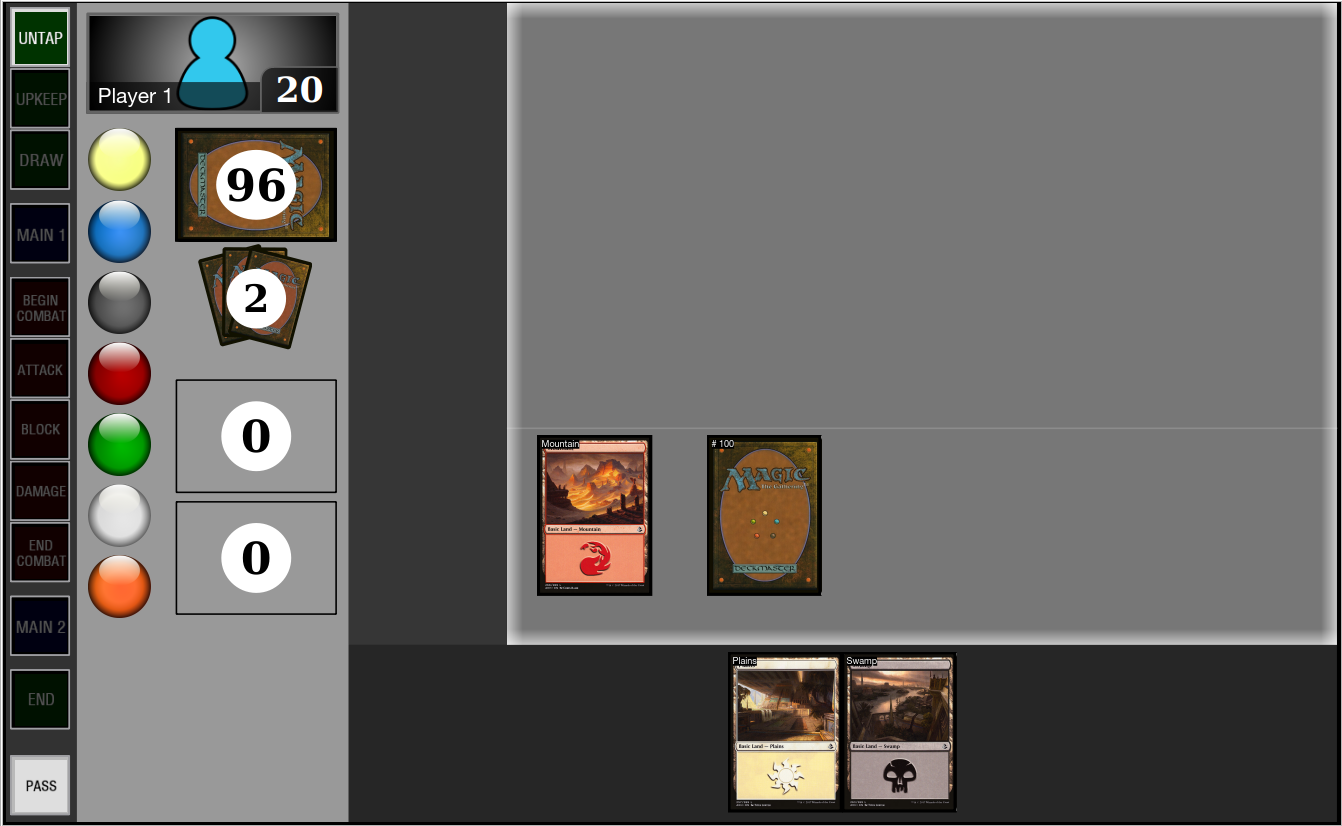
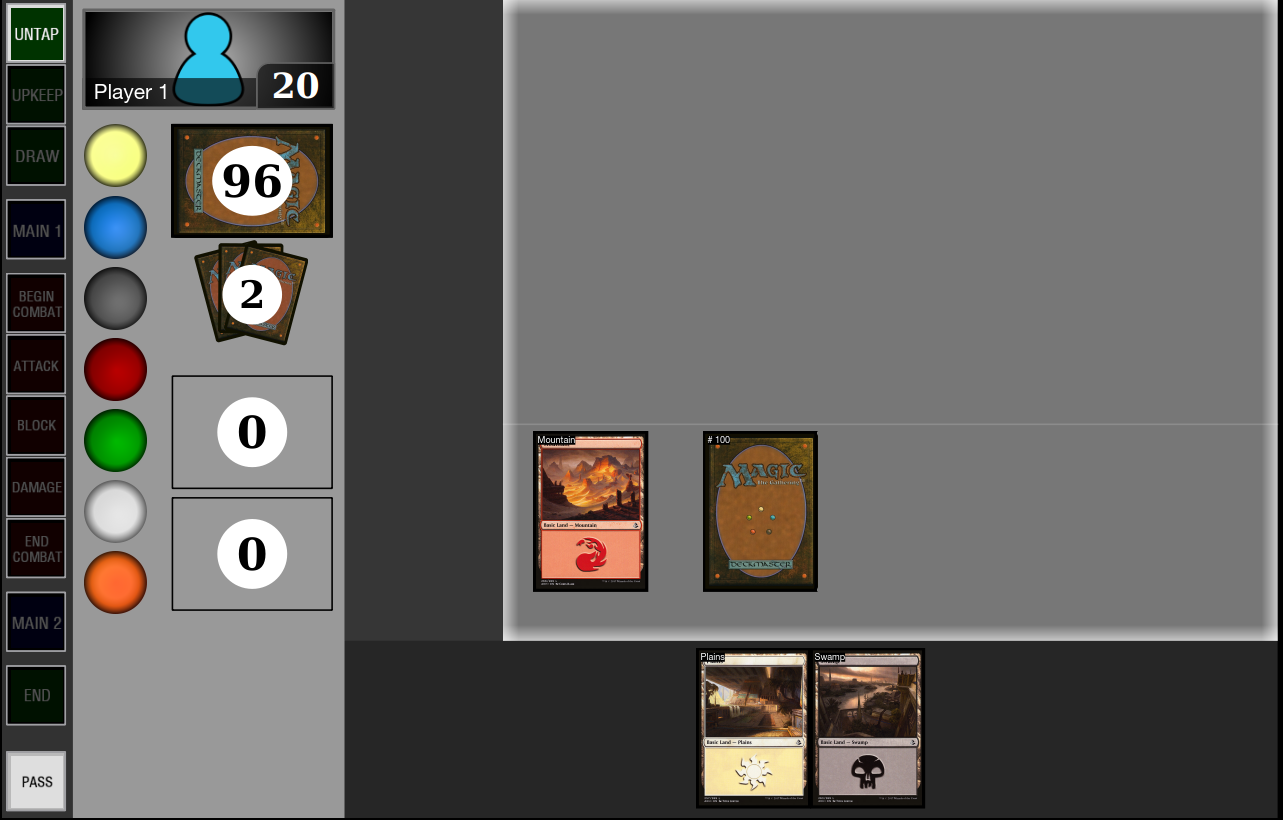
upd screenshots for 0.2

Changed region(s): [[0.0, 0.0, 1.0, 1.0]]

diff --git a/readme.md b/readme.md
@@ -14,7 +14,7 @@ Motivating factors behind this theme:
 
 https://github.com/jonschoning/cockatrice-theme-modern/releases
 
-## Screenshots (v0.1)
+## Screenshots (v0.2)
 
 ![png](screenshots/1player.png)
 
